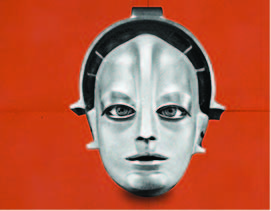
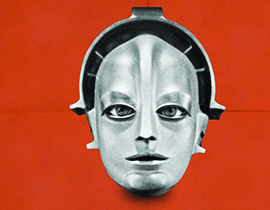
finished second project!!!

diff --git a/css/style.css b/css/style.css
@@ -35,7 +35,7 @@ header {
 	margin-bottom: 70px;
 }
 .section-1 img{
-	width: 690px;
+	width: 1170px;
 }
 /*section1*/
 
@@ -43,7 +43,7 @@ header {
 .section-2 .sec2-h1{
 	font-weight: bold;
 	margin-bottom: 20px;
-	font-family: Arial;
+	font-family: "Roboto";
 }
 
 .grey{
@@ -51,47 +51,45 @@ header {
 }
 
 .table{
-	width: 685px;
-	height: 130px;
+	width: 1170px;
+	height: 210px;
 }
 
 .table .td1{
-	width: 332.5px;
+	width: 570px;
 }
 
 .table .td2{
 	background-color: white;
-	width: 20px;
+	width: 29px;
 }
 
 .table .td3{
-	width: 332.5px;
+	width: 570px;
 }
 
 .td-h1{
 	margin: 15px;
-	font-family: Arial;
+	font-family: "Roboto";
 	color: rgb(109,129,186);
 	font-weight: bold;
 	font-size: 14px;
 }
 .table-div{
-	margin-left: 30px;
+	margin-left: 40px;
 }
 .table-div-img{
-	height: 70px;
-	width: 19%;
+	height: 132.74px;
 	vertical-align: top;
 	text-align: center;
 }
 .table-div-p{
-	width: 60%;
-	color: rgb(109,129,186);
+	width: 230px;
 	margin-left: 30px;
-	font-size: 12px;
-	color: rgb(177,178,179);
-	font-family: Arial;
-	font-weight: 530;
+	font-size: 18px;
+	color: rgb(51,51,51);
+	font-family: "Roboto";
+	font-weight: bold;
 }
 /*section2*/
 

diff --git a/index.html b/index.html
@@ -29,7 +29,7 @@
 		</nav>
 </header>
 <section class="section-1">
-	<img src="pictures/picture.jpg" class="section-img">
+	<img src="pictures/picture1.jpg" class="section-img">
 </section>
 <section class="section-2">
 	<h1 class="sec2-h1">FEATURED | view all featured media</h1>
@@ -38,7 +38,7 @@
 			<td class="td1 grey">
 				<h1 class="td-h1">RESPONSIVE WEB DESIGN</h1>
 				<div class="table-div d-inline-block">
-					<img class="table-div-img d-inline-block" src="pictures/hand.jpg">
+					<img class="table-div-img d-inline-block" src="pictures/hand.png">
 					<p class="table-div-p d-inline-block">approach that suggests that design
 						and development should respond to
 						the user's behavior and environment
@@ -50,7 +50,7 @@
 			<td class="td3 grey">
 				<h1 class="td-h1">APP DEVELOPMENT</h1>
 				<div class="table-div d-inline-block">
-					<img class="table-div-img d-inline-block" src="pictures/mobile.jpg">
+					<img class="table-div-img d-inline-block" src="pictures/mobile.png">
 					<p class="table-div-p d-inline-block">approach that suggests that design
 						and development should respond to
 						the user's behavior and environment

diff --git a/index3.html b/index3.html
@@ -36,14 +36,14 @@
 			<div class="div11">
 				<h1 class="div11-h1">საკონტაქტო ინფორმაცია:</h1>
 				<p class="div11-p">
-					<span class="span1">მისამართი: </span>
-					<span class="span2">პეტრიაშვილის ქ. 30</span> </p>
+					<span class="span1 font">მისამართი: </span>
+					<span class="span2 font">პეტრიაშვილის ქ. 30</span> </p>
 				<p class="div11-p">
-					<span class="span1">ტელ: </span>
-					<span class="span2">+995 32 222 222</span></p>
+					<span class="span1 font">ტელ: </span>
+					<span class="span2 font">+995 32 222 222</span></p>
 				<p class="div11-p">
-					<span class="span1">ელ.ფოსტა: </span>
-					<span class="span2">mail@gmail.com</span></p>
+					<span class="span1 font">ელ.ფოსტა: </span>
+					<span class="span2 font">mail@gmail.com</span></p>
 			</div>
 		</div>
 		<div class="div2 d-inline-block">

diff --git a/css/style2.css b/css/style2.css
@@ -41,6 +41,7 @@ header {
 .month {
 	font-size:18px;
 	color: #3D58A6;
+	font-family: "BPG Nino Mtavruli";
 }
 article{
 	margin: 30px auto 60px;
@@ -48,6 +49,7 @@ article{
 .article-h3 {
 	margin-bottom: 20px;
 	font-size: 20px;	
+	font-family: "BPG Nino Mtavruli";
 	/*font-family: "BPG Nino Mtavruli";*/
 }
 .article-picture{
@@ -60,6 +62,7 @@ article{
 }
 .text-box p{
 	margin-bottom: 15px;
+	font-family: "BPG Ingiri Arial";
 }
 .contact {
 	text-align: center;

diff --git a/css/style3.css b/css/style3.css
@@ -43,8 +43,11 @@ header {
 .div11-h1{
 	color: rgb(69,94,169);
 	font-weight: bold;
+	font-family: "BPG Nino Mtavruli";
 }
-
+.font{
+	font-family: "BPG Ingiri Arial";
+}
 .span1{
 	color: rgb(131,131,131);
 }
